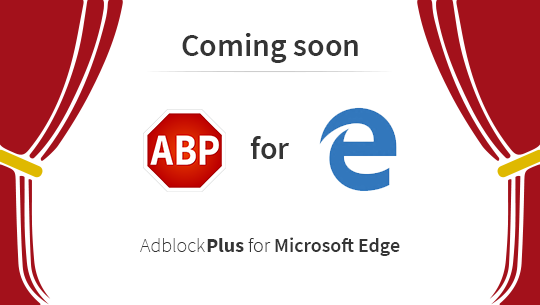
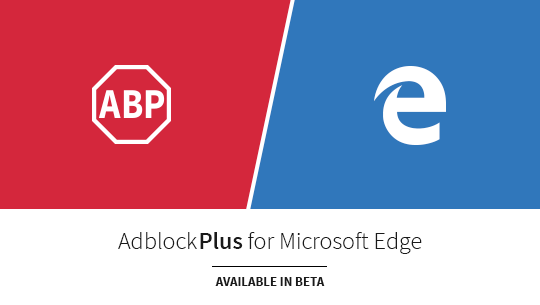
Issue 4027 - Make Adblock Plus for Edge download available for users with extension support

diff --git a/static/css/index.css b/static/css/index.css
@@ -171,9 +171,11 @@ html[dir="rtl"] #summary li .sprite
   margin-left: 0px;
 }
 
-h3.edge-message
+#content h3.edge-message,
+#content h3.edge-message a
 {
   color: #2d79c0;
+  font-size: 20px;
 }
 
 /* This cannot be just .install-button because a:link will have a higher
@@ -236,13 +238,15 @@ h3.edge-message
 #content.internet-explorer.ua-internet-explorer .install-button,
 #content.safari.ua-safari .install-button,
 #content.yandex-browser.ua-yandex-browser .install-button,
+#content.edge.ua-edge .install-button,
 /* IE6 fixes */
 #content.firefox_ua-firefox .install-button,
 #content.chrome_ua-chrome .install-button,
 #content.opera_ua-opera .install-button,
 #content.internet-explorer_ua-internet-explorer .install-button,
 #content.safari_ua-safari .install-button,
-#content.yandex-browser_ua-yandex-browser .install-button
+#content.yandex-browser_ua-yandex-browser .install-button,
+#content.edge_ua-edge .install-button
 {
   background: #62c52b;
   background: -webkit-linear-gradient(top, #62c52b, #4f9d22);
@@ -261,13 +265,15 @@ h3.edge-message
 #content.internet-explorer.ua-internet-explorer .install-button:hover,
 #content.safari.ua-safari .install-button:hover,
 #content.yandex-browser.ua-yandex-browser .install-button:hover,
+#content.edge.ua-edge .install-button:hover,
 /* IE6 fixes */
 #content.firefox_ua-firefox .install-button:hover,
 #content.chrome_ua-chrome .install-button:hover,
 #content.opera_ua-opera .install-button:hover,
 #content.internet-explorer_ua-internet-explorer .install-button:hover,
 #content.safari_ua-safari .install-button:hover,
-#content.yandex-browser_ua-yandex-browser .install-button:hover
+#content.yandex-browser_ua-yandex-browser .install-button:hover,
+#content.edge_ua-edge .install-button:hover
 {
   box-shadow: 0px 2px 7px #486c15, 0 1px 0 0 #486c15;
 }
@@ -279,13 +285,15 @@ h3.edge-message
 #content.internet-explorer.ua-internet-explorer .install-button:active,
 #content.safari.ua-safari .install-button:active,
 #content.yandex-browser.ua-yandex-browser .install-button:active,
+#content.edge.ua-edge .install-button:active,
 /* IE6 fixes */
 #content.firefox_ua-firefox .install-button:active,
 #content.chrome_ua-chrome .install-button:active,
 #content.opera_ua-opera .install-button:active,
 #content.internet-explorer_ua-internet-explorer .install-button:active,
 #content.safari_ua-safari .install-button:active,
-#content.yandex-browser_ua-yandex-browser .install-button:active
+#content.yandex-browser_ua-yandex-browser .install-button:active,
+#content.edge_ua-edge .install-button:active
 {
   background: #4f9d22;
   background: -webkit-linear-gradient(bottom, #62c52b, #4f9d22);
@@ -300,7 +308,8 @@ h3.edge-message
 #content.opera #install-opera, #content.android #install-android,
 #content.internet-explorer #install-internet-explorer,
 #content.safari #install-safari,
-#content.yandex-browser #install-yandex-browser
+#content.yandex-browser #install-yandex-browser,
+#content.edge.edge-supported #install-edge
 {
   display: inline-block;
 }
@@ -441,7 +450,9 @@ html[dir="rtl"] #install ul
 #other-platform > div,
 #content.edge #video,
 #edge-teaser,
-h3.edge-message
+h3.edge-message,
+#content.edge.edge-supported h3.edge-message,
+#content.edge.edge-supported #other-platform > div
 {
   display: none;
 }

diff --git a/static/js/index.js b/static/js/index.js
@@ -29,6 +29,19 @@
   function init()
   {
     container = document.getElementById("more-container");
+    checkEdgeSupport();
+  }
+
+  function checkEdgeSupport()
+  {
+    if (!window.navigator.userAgent)
+      return;
+
+    var content = document.getElementById("content");
+    var match = window.navigator.userAgent.match(/Edge\/(\d+.\d+)/);
+    if (match && parseFloat(match[1]) >= 14.14342 &&
+        content.classList.contains("edge"))
+      content.classList.add("edge-supported");
   }
 
   init();
